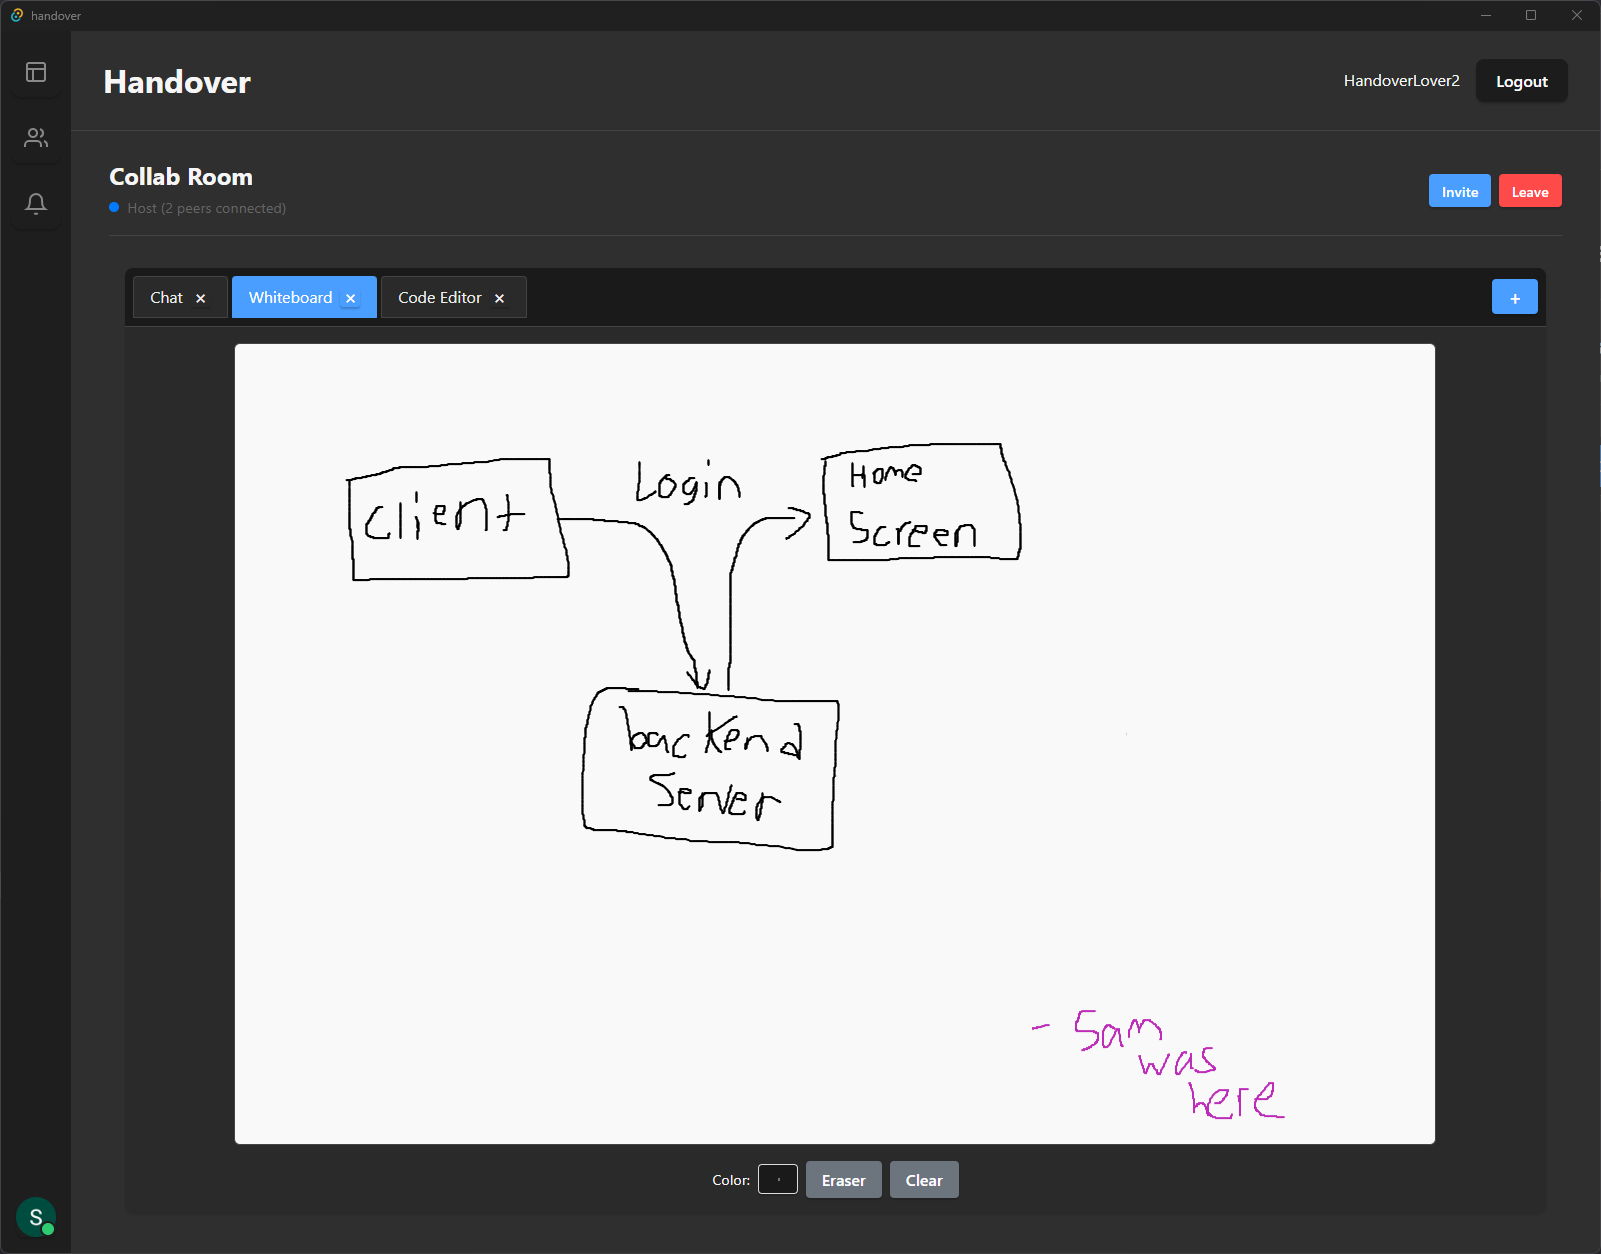
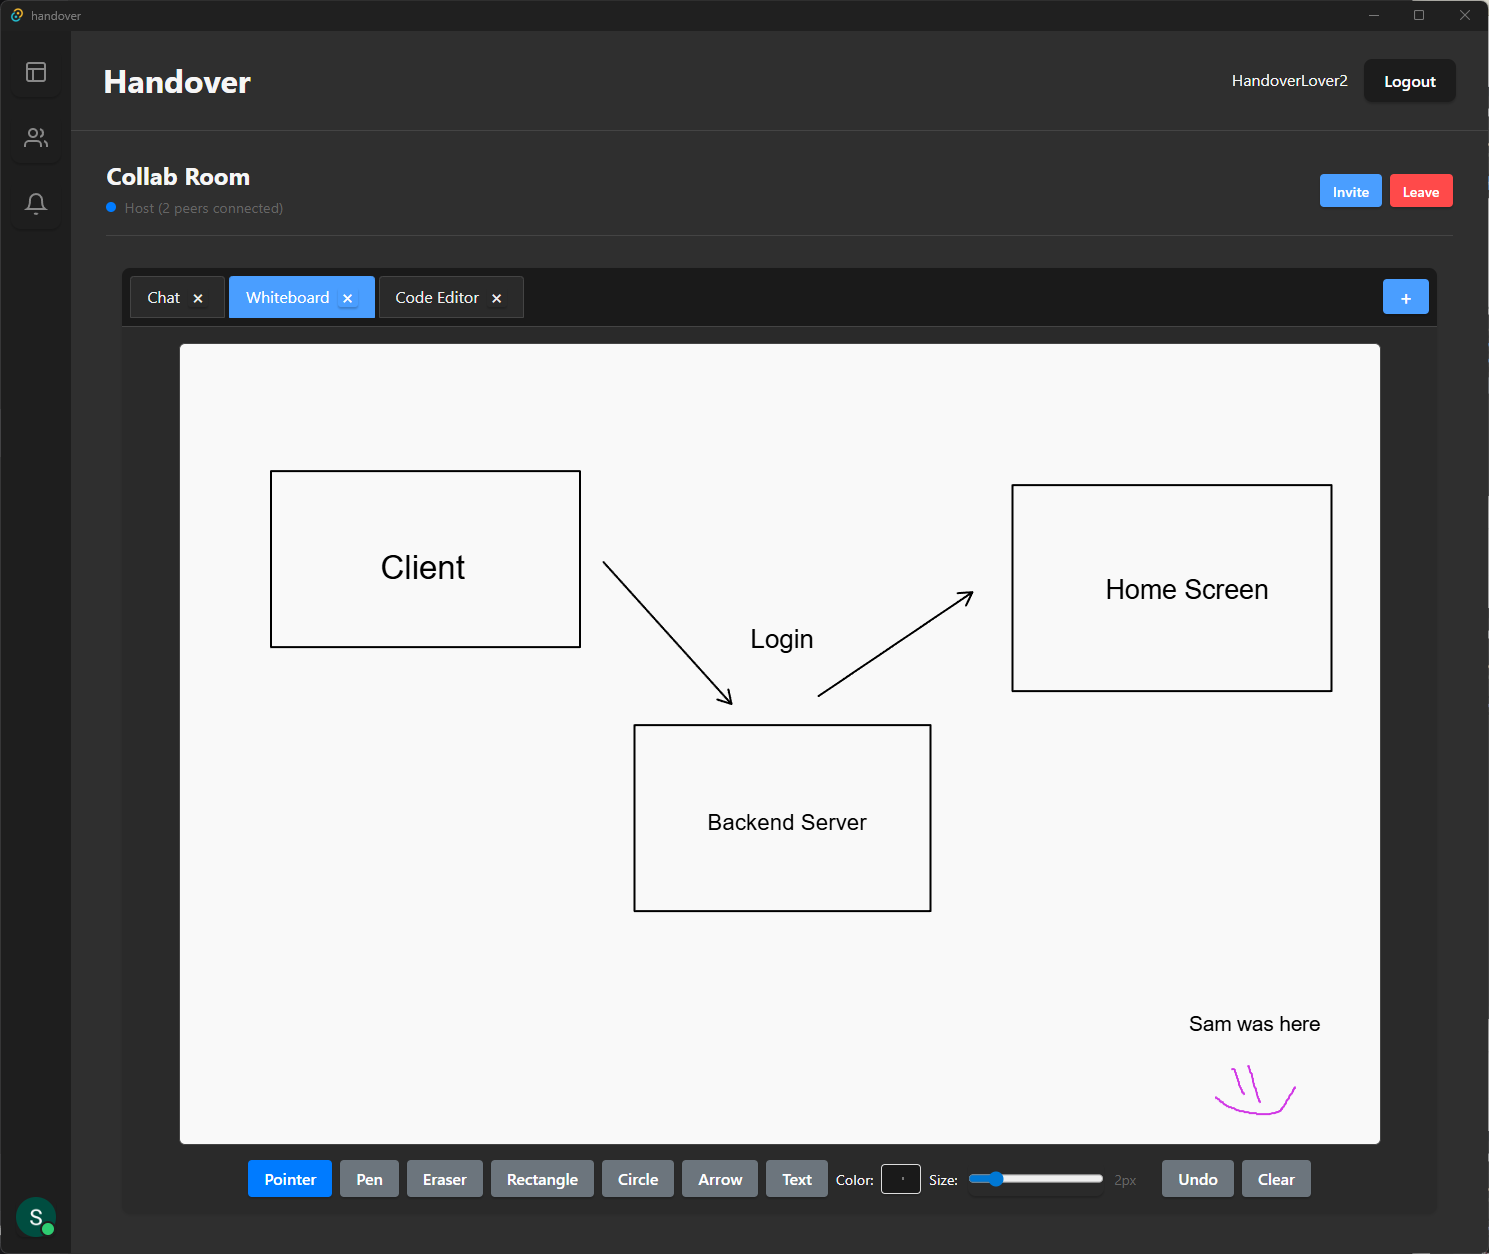
Updated releases and whiteboard showcase image

diff --git a/html/downloads.html b/html/downloads.html
@@ -34,8 +34,8 @@
                         <div class="platform-icon">🪟</div>
                         <h3>Windows</h3>
                         <p>Windows 10 or later (x64)</p>
-                        <a href="https://github.com/CtrlAltSam/handover/raw/refs/heads/main/handover-0.1.0.zip" class="btn btn-primary">Download .zip</a>
-                        <span class="version">Version 0.1.0-alpha</span>
+                        <a href="https://github.com/CtrlAltSam/handover/releases/download/v0.2.0/handover-0.2.0.zip" class="btn btn-primary">Download .zip</a>
+                        <span class="version">Version 0.2.0</span>
                     </div>
                     <div class="platform-card" style="opacity: 0.6;">
                         <div class="platform-icon">🍎</div>
@@ -58,10 +58,22 @@
                     <div class="update-list">
                         <div class="update-item">
                             <div class="update-header">
-                                <h3>Version 0.1.0-alpha</h3>
+                                <h3>Version 0.2.0-alpha</h3>
                                 <span class="update-date">January 12, 2026</span>
                             </div>
                             <div class="update-badge new">Alpha Release</div>
+                            <ul class="update-notes">
+                                <li>✏ Added more tools for whiteboard</li>
+                                <li>✏ Added text and shape support</li>
+                                <li>👾 Fixed some desyncing issues with code editor</li>
+                            </ul>
+                        </div>
+
+                        <div class="update-item">
+                            <div class="update-header">
+                                <h3>Version 0.1.0-alpha</h3>
+                                <span class="update-date">January 12, 2026</span>
+                            </div>
                             <ul class="update-notes">
                                 <li>🚀 Initial release of Tauri desktop application</li>
                                 <li>🔐 Google OAuth authentication integration</li>
